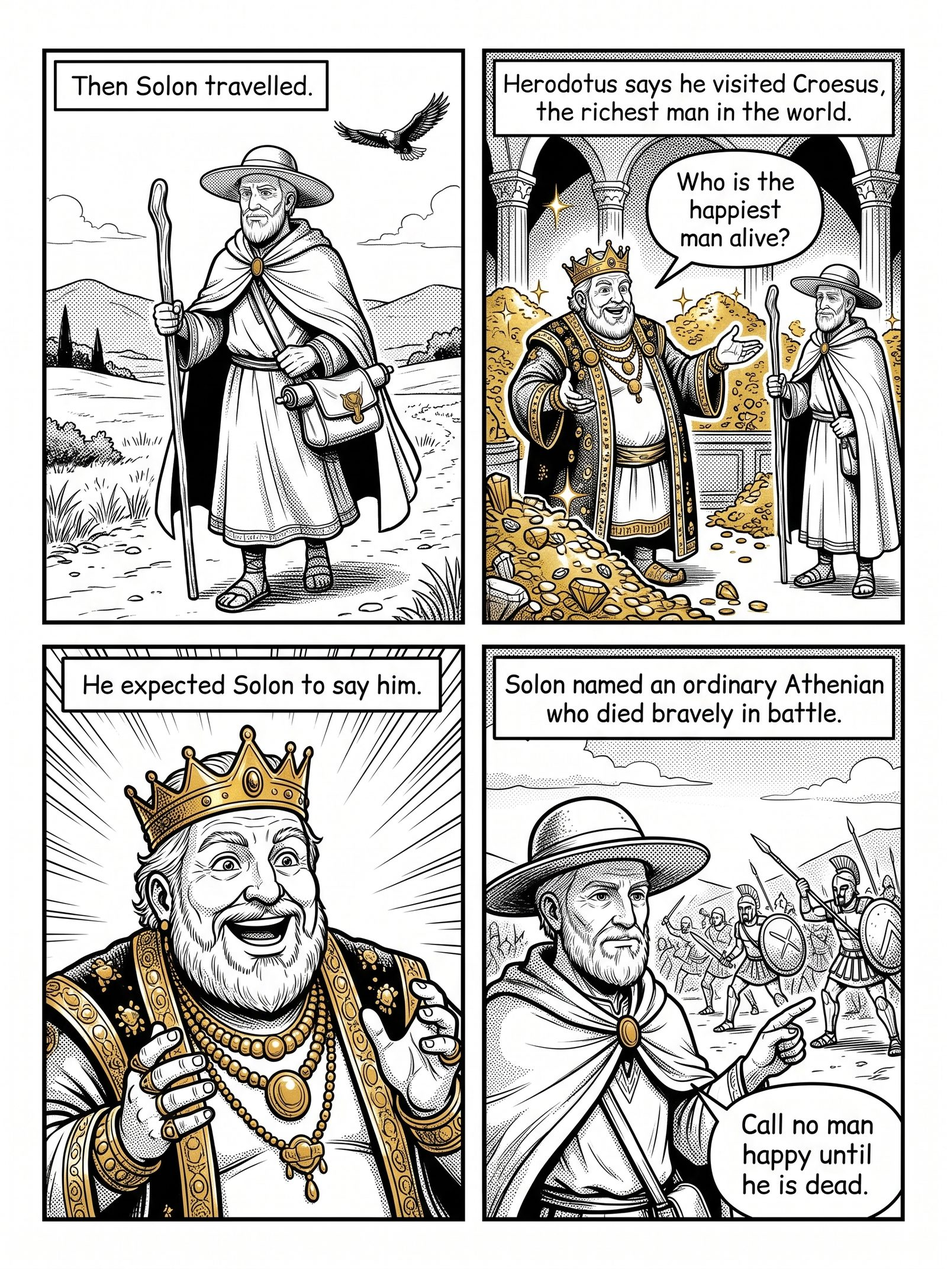
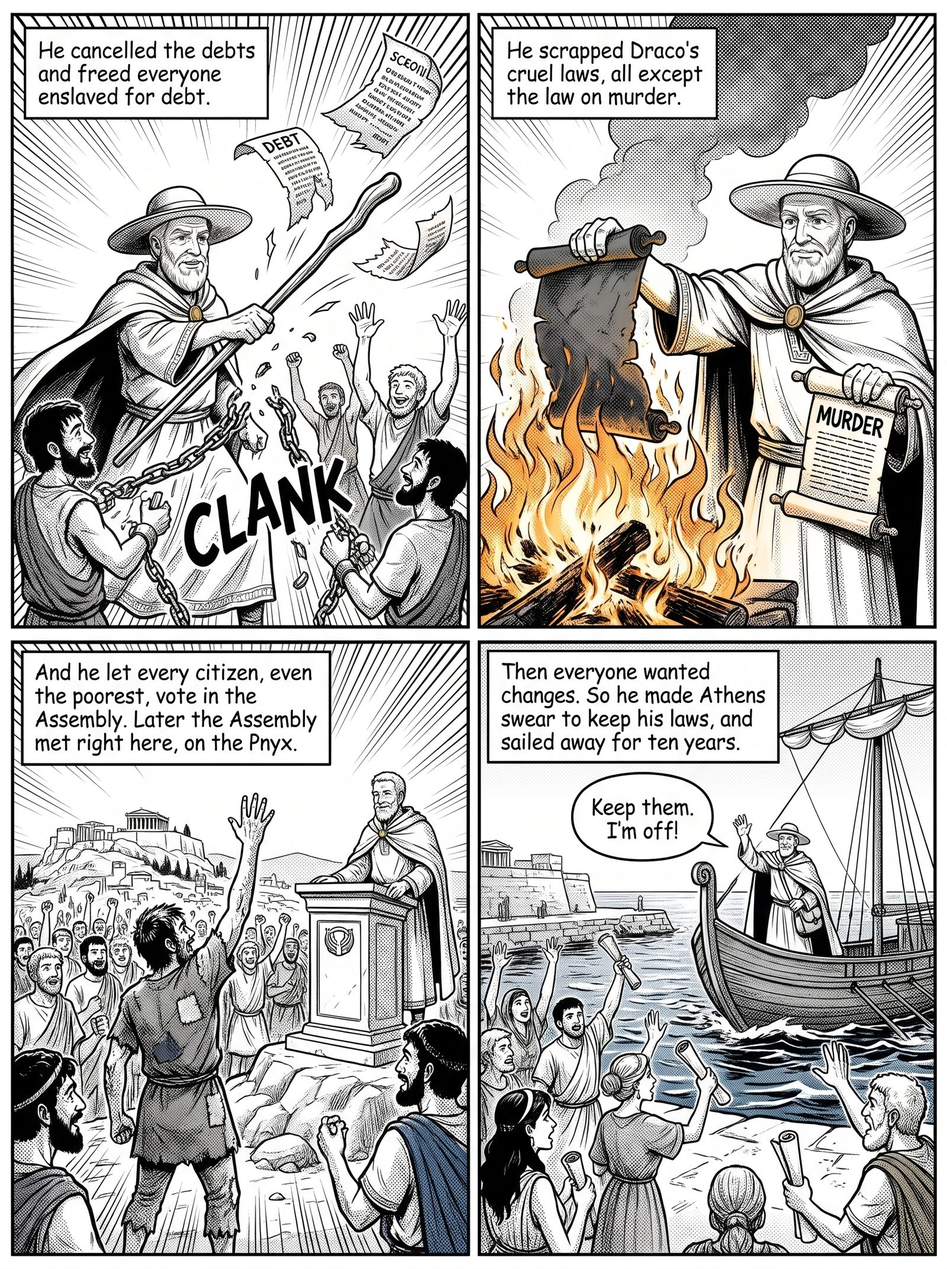
Splash screen, new Pnyx comic

diff --git a/css/game.css b/css/game.css
@@ -38,7 +38,17 @@ body.nohud #hud #topleft, body.nohud #hud #topbtns, body.nohud #hud #mm, body.no
 #toast { position: fixed; left: 50%; top: calc(76px + var(--safe-t)); transform: translate(-50%, -20px); background: var(--cream); border: 3px solid var(--edge); border-radius: 12px; padding: 8px 16px; font-size: 17px; opacity: 0; transition: .25s; pointer-events: none; z-index: 20; max-width: 90vw; text-align: center; font-weight: 600; }
 #toast.show { opacity: 1; transform: translate(-50%, 0); }
 #loading { position: fixed; inset: 0; background: #1b1424; color: #fff4d6; display: flex; flex-direction: column; align-items: center; justify-content: center; font-family: Sprout, monospace; z-index: 50; transition: opacity .4s; }
-#loading p { font-size: 40px; margin: 0 0 6px; text-shadow: 0 4px 0 #5b3a29; } #loading.done { opacity: 0; pointer-events: none; }
+#loading { background: #f5c06a url(../art/ui/splash.jpg) center 70% / cover no-repeat; justify-content: space-between; padding: calc(4vh + var(--safe-t)) 4vw calc(5vh + var(--safe-b)); }
+#loading .ld-title { text-align: center; transform: rotate(-3deg); animation: ldpop .6s cubic-bezier(.2,1.5,.4,1) both; }
+#loading .ld-title p { margin: 0; font-family: "Futura-CondensedExtraBold", "Avenir Next Condensed", Impact, "Arial Black", sans-serif; font-weight: 900; font-style: italic; text-transform: uppercase; font-size: clamp(54px, 11vw, 150px); line-height: .9; color: #ffd23f;
+  text-shadow: 5px 5px 0 #1b1424, -3px -3px 0 #1b1424, 3px -3px 0 #1b1424, -3px 3px 0 #1b1424, 0 0 40px rgba(255,170,40,.55); }
+#loading .ld-title b { display: inline-block; margin-top: 6px; background: #c2402f; color: #fff; font: 900 italic clamp(26px, 4.6vw, 60px) "Avenir Next Condensed", Impact, sans-serif; text-transform: uppercase; letter-spacing: .12em; padding: 2px 26px 4px; transform: skewX(-12deg); box-shadow: 0 5px 0 #1b1424; }
+#loading .ld-foot { width: min(560px, 80vw); text-align: center; }
+#loading .ld-bar { height: 18px; border: 4px solid #1b1424; border-radius: 12px; background: rgba(255,250,240,.85); overflow: hidden; box-shadow: 0 4px 0 rgba(27,20,36,.6); }
+#loading .ld-bar i { display: block; height: 100%; width: 4%; background: linear-gradient(90deg, #f5c542, #ffe9a0); transition: width .35s ease-out; }
+#loading small { display: inline-block; margin-top: 10px; font-size: clamp(16px, 2.2vw, 22px); color: #1b1424; background: rgba(255,250,240,.85); padding: 3px 14px; border-radius: 10px; }
+@keyframes ldpop { from { transform: rotate(-3deg) scale(.4); opacity: 0; } }
+#loading.done { opacity: 0; pointer-events: none; }
 /* overlays */
 .overlay { position: fixed; inset: 0; background: rgba(27,20,36,.62); z-index: 30; display: flex; align-items: center; justify-content: center; padding: calc(10px + var(--safe-t)) calc(10px + var(--safe-r)) calc(10px + var(--safe-b)) calc(10px + var(--safe-l)); touch-action: pan-y; }
 .panel.big { position: relative; width: min(920px, 100%); max-height: 100%; overflow-y: auto; -webkit-overflow-scrolling: touch; padding: 16px 22px 20px; border-width: 5px; user-select: none; }

diff --git a/js/main.js b/js/main.js
@@ -17,15 +17,17 @@ async function loadStories() {
   }
   return [];
 }
+// loading screen progress: a fraction and a line of what is happening
+const step = (f, msg) => { const b = document.querySelector('#loading .ld-bar i'), m = document.querySelector('#loading small'); if (b) b.style.width = Math.round(f * 100) + '%'; if (m && msg) m.textContent = msg; };
 async function boot() {
   loadStore(); try { await preloadAvatar(me()); } catch (e) { }
   initRender($('cv')); bindCanvas(cv);
-  await loadManifest('art/manifest.json'); await loadAudioManifest();
-  await loadWorlds();
+  step(.1, 'Sharpening pencils...'); await loadManifest('art/manifest.json'); step(.35, 'Tuning the lyres...'); await loadAudioManifest();
+  step(.45, 'Building Athens...'); await loadWorlds();
   try { const r = await fetch('art/stills/index.json'); if (r.ok) (await r.json()).forEach(f => stillList.add(f)); } catch (e) { }
-  await loadAiManifest(); await loadMarkers();
+  step(.7, 'Unrolling the scrolls...'); await loadAiManifest(); await loadMarkers();
   const stories = await loadStories();
-  const game = new Game(); await game.init(stories); ui.init(game);
+  step(.8, 'Waking the gods...'); const game = new Game(); await game.init(stories); ui.init(game); step(1, 'Ready!');
   import('./wardrobe.js').then(m => m.initWardrobe(game)).catch(e => console.warn('wardrobe', e));
   game.afterPick = () => {
     ui.refresh(); ui.hud(true);

diff --git a/index.html b/index.html
@@ -8,6 +8,7 @@
 <meta name="theme-color" content="#1b1424">
 <link rel="manifest" href="manifest.webmanifest"><link rel="apple-touch-icon" href="icon-180.png"><link rel="icon" href="icon-180.png">
 <title>Owl Quest: Athens</title>
+<link rel="preload" as="image" href="art/ui/splash.jpg">
 <link rel="stylesheet" href="css/game.css">
 </head>
 <body class="nohud">
@@ -24,7 +25,7 @@
 </div>
 <div id="joy"><div id="joyknob"></div></div>
 <div id="toast"></div>
-<div id="loading"><p>Owl Quest: Athens</p><small>Loading the map...</small></div>
+<div id="loading"><div class="ld-title"><p>Owl Quest</p><b>Athens</b></div><div class="ld-foot"><div class="ld-bar"><i></i></div><small>Waking Glauka up...</small></div></div>
 <script type="module" src="js/main.js"></script>
 </body>
 </html>
